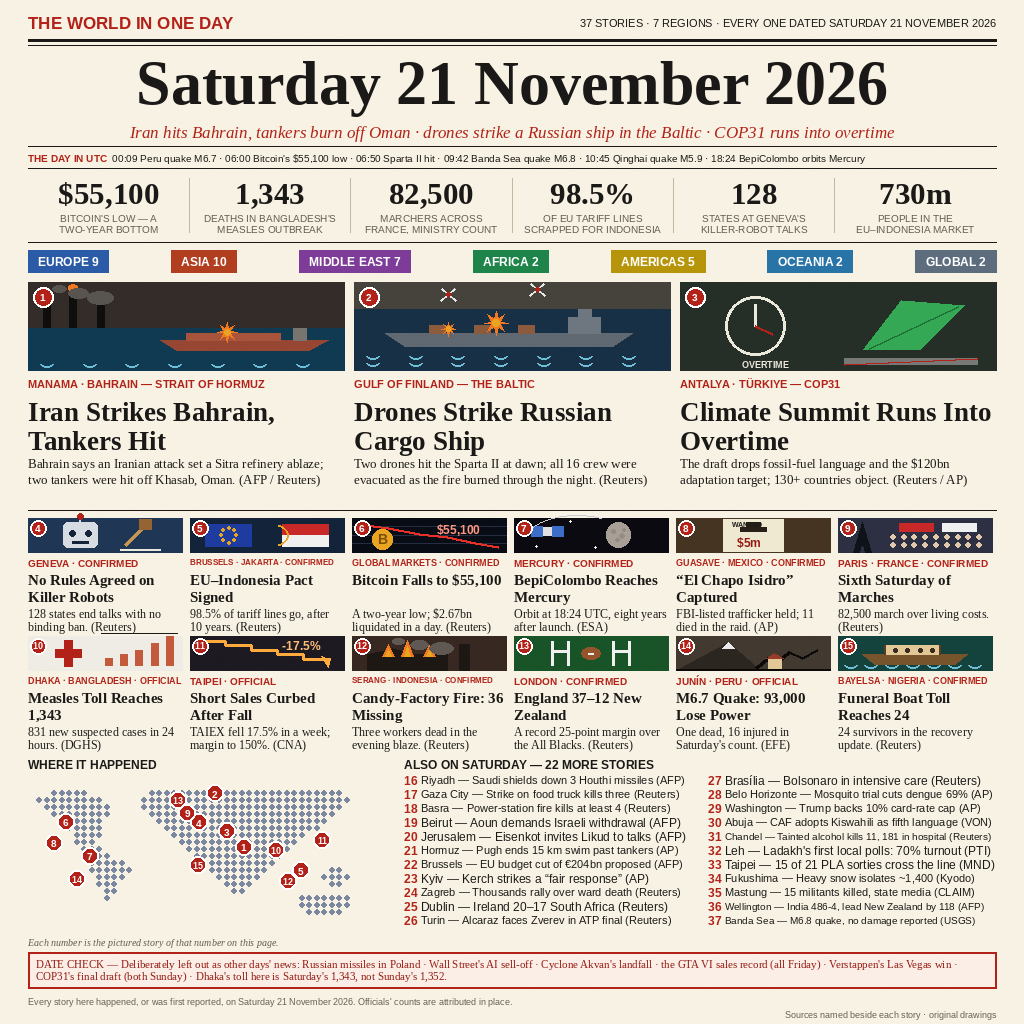
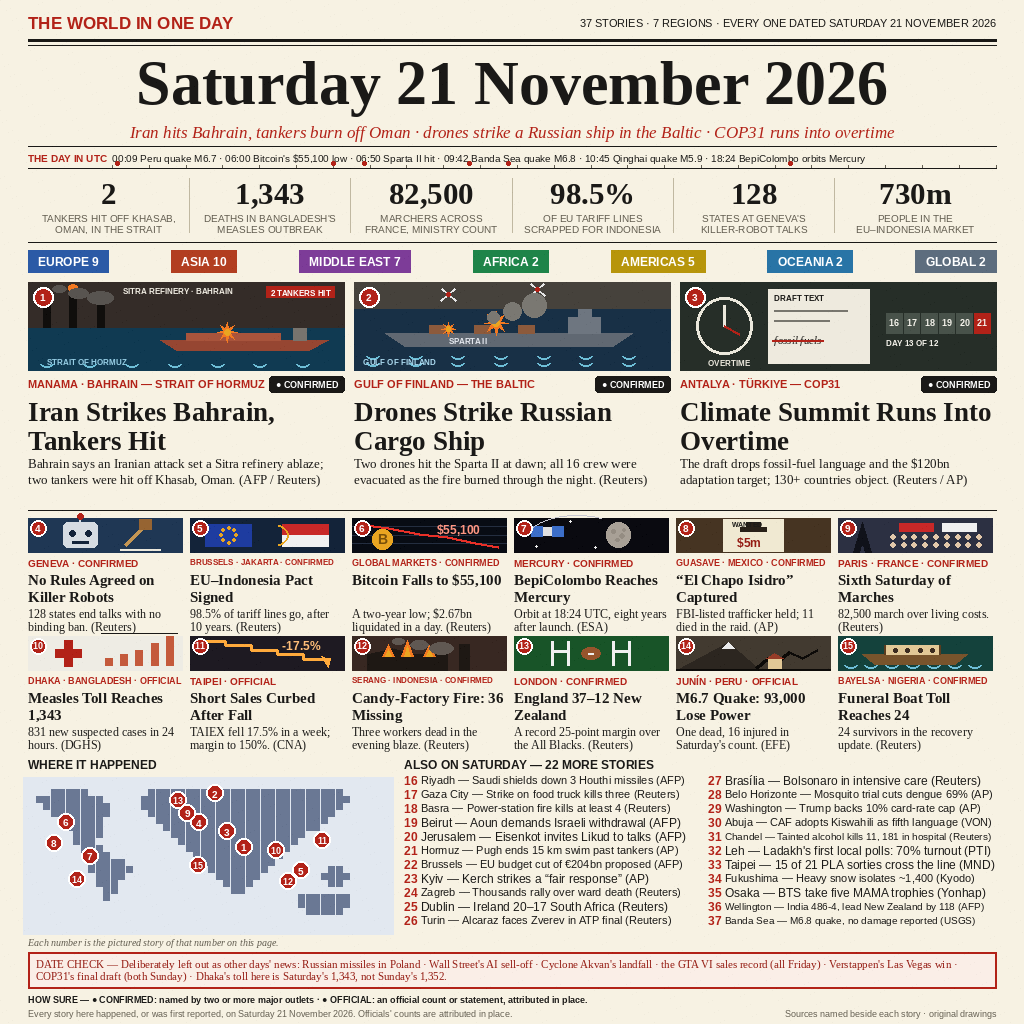
V2: stability sharpening — annotated hero scenes, certainty pills + legend, FAKTA-only briefs, filled map, timeline ruler, hard-news numbers lead

diff --git a/frontpage.py b/frontpage.py
@@ -5,14 +5,14 @@ The page is a classic illustrated broadsheet for one day — Saturday
 Liberation family: masthead, giant serif date, red italic dek, a UTC
 timeline of the day, a six-figure numbers strip, region tabs counted
 from the story list itself, three hero panels with drawn scenes,
-twelve pictured story cards with certainty tags, a dot-matrix world
+twelve pictured story cards with certainty tags, a filled-block world
 map carrying a numbered pin for every pictured story, twenty-two
 one-line briefs, and a red date-check box that names the neighbouring
 days' stories this page deliberately leaves out.
 
 All 37 stories come from a verified research dossier: every figure
 was confirmed by two independent sources before it was allowed on the
-page, and the single state-media claim is tagged CLAIM where it sits.
+page, and the dossier's single-source claims were left off entirely.
 The render is deterministic — same data, same PNG, every run.
 
 Usage:  python3 frontpage.py   ->   entry.png + fallback.png (1024x1024)
@@ -50,7 +50,8 @@ NAVY_LIGHT = (31, 55, 84)
 NIGHT = (11, 21, 35)
 GOLD = (233, 165, 33)
 ORANGE = (243, 121, 33)
-MAP_DOT = (124, 136, 159)
+MAP_DOT = (106, 120, 148)
+MAP_SEA = (226, 232, 240)
 RULE_SOFT = (192, 184, 161)
 
 TAB_INK = {
@@ -175,7 +176,7 @@ BRIEFS = [
     (32, "Leh — Ladakh's first local polls: 70% turnout (PTI)", "Asia"),
     (33, "Taipei — 15 of 21 PLA sorties cross the line (MND)", "Asia"),
     (34, "Fukushima — Heavy snow isolates ~1,400 (Kyodo)", "Asia"),
-    (35, "Mastung — 15 militants killed, state media (CLAIM)", "Asia"),
+    (35, "Osaka — BTS take five MAMA trophies (Yonhap)", "Asia"),
     (36, "Wellington — India 486-4, lead New Zealand by 118 (AFP)", "Oceania"),
     (37, "Banda Sea — M6.8 quake, no damage reported (USGS)", "Oceania"),
 ]
@@ -183,7 +184,7 @@ BRIEFS = [
 # ------------------------------------------------------------------ numbers
 
 NUMBERS = [
-    ("$55,100", "BITCOIN'S LOW — A TWO-YEAR BOTTOM"),
+    ("2", "TANKERS HIT OFF KHASAB, OMAN, IN THE STRAIT"),
     ("1,343", "DEATHS IN BANGLADESH'S MEASLES OUTBREAK"),
     ("82,500", "MARCHERS ACROSS FRANCE, MINISTRY COUNT"),
     ("98.5%", "OF EU TARIFF LINES SCRAPPED FOR INDONESIA"),
@@ -207,7 +208,7 @@ REGION_TALLY = Counter(
 )
 
 # ------------------------------------------------------------------ map
-# A coarse dot-matrix world, one character per dot: '#' is land.
+# A coarse block world, one character per cell: '#' is land.
 # 48 columns x 21 rows, drawn by hand for this page.
 
 WORLD = [
@@ -353,6 +354,17 @@ def scene_hormuz(d, x, y, w, h):
     d.rectangle([x + 0.50 * w, ty - 7, x + 0.80 * w, ty], fill=(168, 84, 60))
     d.rectangle([x + 0.84 * w, ty - 12, x + 0.88 * w, ty], fill=(120, 116, 110))
     burst(d, x + 0.63 * w, ty - 8, 10)
+    # scene labels, in the annotated news-graphic manner
+    d.text((x + 0.30 * w, y + 4), "SITRA REFINERY · BAHRAIN",
+           font=font(SANS_BOLD, 8), fill=(240, 236, 226))
+    tag = "2 TANKERS HIT"
+    tw = d.textlength(tag, font=font(SANS_BOLD, 8))
+    d.rectangle([x + 0.97 * w - tw - 8, y + 4, x + 0.97 * w, y + 15],
+                fill=RED)
+    d.text((x + 0.97 * w - tw - 4, y + 6), tag, font=font(SANS_BOLD, 8),
+           fill=(255, 255, 255))
+    d.text((x + 0.06 * w, y + h - 13), "STRAIT OF HORMUZ",
+           font=font(SANS_BOLD, 8), fill=(150, 205, 228))
     _waves(d, x, y, w, [y + h - 7])
 
 
@@ -377,32 +389,58 @@ def scene_sparta(d, x, y, w, h):
         d.line([dx - 7, dy - 6, dx + 7, dy + 6], fill=(230, 230, 230), width=2)
         d.line([dx - 7, dy + 6, dx + 7, dy - 6], fill=(230, 230, 230), width=2)
         d.ellipse([dx - 2, dy - 2, dx + 2, dy + 2], fill=RED)
+    # smoke rising off the deck fire
+    for i, (fx, fy) in enumerate([(0.44, 0.40), (0.50, 0.33), (0.57, 0.27)]):
+        r = 6 + i * 3
+        d.ellipse([x + fx * w - r, y + fy * h - r, x + fx * w + r,
+                   y + fy * h + r], fill=(122, 120, 114))
     _waves(d, x, y, w, [y + h - 8, y + h - 15])
+    # scene labels last, over the water: the gulf, and the ship's name
+    d.text((x + 0.03 * w, y + h - 13), "GULF OF FINLAND",
+           font=font(SANS_BOLD, 8), fill=(170, 216, 238))
+    d.text((x + 0.30 * w, gy + 3), "SPARTA II", font=font(SANS_BOLD, 8),
+           fill=(228, 232, 238))
 
 
 def scene_cop(d, x, y, w, h):
-    """A summit clock run past the hour, and a green leaf."""
+    """A summit clock run past the hour; the draft text with its
+    fossil-fuels line struck out; a calendar whose scheduled days
+    run out on the 21st — day 13 of a 12-day summit."""
     d.rectangle([x, y, x + w, y + h], fill=(38, 46, 40))
     cy = y + h / 2
     # clock, left
-    cx = x + 0.24 * w
-    r = h * 0.34
+    cx = x + 0.14 * w
+    r = h * 0.32
     d.ellipse([cx - r, cy - r, cx + r, cy + r], outline=(235, 232, 220), width=3)
     d.line([cx, cy, cx, cy - r * 0.72], fill=(235, 232, 220), width=3)
     d.line([cx, cy, cx + r * 0.55, cy + r * 0.30], fill=RED, width=3)
-    d.text((cx - 14, cy + r + 3), "OVERTIME", font=font(SANS_BOLD, 9),
+    d.text((cx - 16, cy + r + 4), "OVERTIME", font=font(SANS_BOLD, 8),
            fill=(235, 232, 220))
-    # leaf, right
-    d.polygon([(x + 0.58 * w, cy + r * 0.8), (x + 0.70 * w, cy - r * 0.85),
-               (x + 0.90 * w, cy - r * 0.7), (x + 0.76 * w, cy + r * 0.8)],
-              fill=(52, 168, 84))
-    d.line([x + 0.60 * w, cy + r * 0.75, x + 0.88 * w, cy - r * 0.65],
-           fill=(30, 110, 55), width=2)
-    # struck-through fossil bar
-    d.rectangle([x + 0.52 * w, cy + r + 3, x + 0.94 * w, cy + r + 9],
-                fill=(120, 120, 118))
-    d.line([x + 0.52 * w, cy + r + 9, x + 0.94 * w, cy + r + 3], fill=RED,
-           width=2)
+    # the draft, centre: a page whose key line is struck through
+    dx0, dy0 = x + 0.28 * w, y + 7
+    dx1, dy1 = x + 0.60 * w, y + h - 7
+    d.rectangle([dx0, dy0, dx1, dy1], fill=(238, 234, 222))
+    d.text((dx0 + 6, dy0 + 4), "DRAFT TEXT", font=font(SANS_BOLD, 8), fill=INK)
+    for i, wd in enumerate((0.78, 0.60)):
+        ly = dy0 + 21 + i * 10
+        d.line([dx0 + 6, ly, dx0 + wd * (dx1 - dx0), ly],
+               fill=(120, 118, 110), width=2)
+    fy = dy0 + 45
+    ff = font(SERIF_ITALIC, 11)
+    d.text((dx0 + 6, fy), "fossil fuels", font=ff, fill=INK)
+    d.line([dx0 + 4, fy + 6, dx0 + 8 + d.textlength("fossil fuels", font=ff),
+            fy + 6], fill=RED, width=2)
+    # calendar, right: the scheduled days run out on the red 21st
+    gx = x + 0.65 * w
+    cell = 0.335 * w / 6
+    for i, day in enumerate(("16", "17", "18", "19", "20", "21")):
+        cx0 = gx + i * cell
+        d.rectangle([cx0 + 1, cy - 13, cx0 + cell - 1, cy + 7],
+                    fill=RED if day == "21" else (72, 82, 74))
+        middle(d, cx0 + cell / 2, cy - 9, day, font(SANS_BOLD, 9),
+               (245, 243, 235))
+    d.text((gx + 1, cy + 12), "DAY 13 OF 12", font=font(SANS_BOLD, 8),
+           fill=(245, 243, 235))
 
 
 def scene_robots(d, x, y, w, h):
@@ -664,6 +702,14 @@ def render():
     d.text((EDGE, 152), "THE DAY IN UTC", font=font(SANS_BOLD, 10), fill=RED)
     lab_w = d.textlength("THE DAY IN UTC  ", font=font(SANS_BOLD, 10))
     fit(d, EDGE + lab_w, 152, TIMELINE, SANS, 10, SPAN - lab_w, INK)
+    # an hour-tick ruler under the line, with a dot for each printed time
+    tl_x, tl_span = EDGE + lab_w, SPAN - lab_w
+    for k in range(25):
+        txp = tl_x + tl_span * k / 24
+        d.line([txp, 165, txp, 168], fill=FAINT, width=1)
+    for frac in (0.006, 0.250, 0.285, 0.404, 0.448, 0.767):
+        ex = tl_x + tl_span * frac
+        d.ellipse([ex - 2, 161, ex + 2, 165], fill=RED)
     d.line([EDGE, 168, PAGE - EDGE, 168], fill=INK, width=1)
 
     # ---- numbers strip
@@ -696,6 +742,14 @@ def render():
         SCENES[hero["scene"]](d, hx, hy, hero_w, 88)
         pin(d, hx + 15, hy + 15, hero["num"], r=10)
         d.text((hx, hy + 96), hero["tag"], font=font(SANS_BOLD, 11), fill=RED)
+        # every hero is two-source: it carries the same pill as the cards
+        pill = "● CONFIRMED"
+        pf = font(SANS_BOLD, 9)
+        pw = d.textlength(pill, font=pf) + 12
+        d.rounded_rectangle([hx + hero_w - pw, hy + 94, hx + hero_w,
+                             hy + 110], 3, fill=INK)
+        d.text((hx + hero_w - pw + 6, hy + 97), pill, font=pf,
+               fill=(255, 255, 255))
         block(d, hx, hy + 114, hero["head"], font(SERIF_BOLD, 27), INK,
               hero_w, 29, cap=2)
         block(d, hx, hy + 174, hero["summ"], font(SERIF, 13), INK,
@@ -721,15 +775,18 @@ def render():
     d.text((EDGE, by), "WHERE IT HAPPENED", font=font(SANS_BOLD, 12), fill=INK)
     map_x, map_y = EDGE, by + 24
     pitch_x, pitch_y = 7.5, 7.0
+    map_w = len(WORLD[0]) * pitch_x
+    map_h = len(WORLD) * pitch_y
+    d.rectangle([map_x - 5, map_y - 5, map_x + map_w + 5, map_y + map_h + 5],
+                fill=MAP_SEA)
     for ri, row in enumerate(WORLD):
         for ci, ch in enumerate(row):
             if ch == "#":
                 cxp = map_x + ci * pitch_x + pitch_x / 2
                 cyp = map_y + ri * pitch_y + pitch_y / 2
-                d.ellipse([cxp - 2.5, cyp - 2.5, cxp + 2.5, cyp + 2.5],
-                          fill=MAP_DOT)
-    map_w = len(WORLD[0]) * pitch_x
-    map_h = len(WORLD) * pitch_y
+                d.rectangle([cxp - pitch_x / 2 + 0.6, cyp - pitch_y / 2 + 0.6,
+                             cxp + pitch_x / 2 - 0.6, cyp + pitch_y / 2 - 0.6],
+                            fill=MAP_DOT)
     for num, (fx, fy) in PINS.items():
         pin(d, map_x + fx * map_w, map_y + fy * map_h, num, r=8.5)
     d.text((EDGE, map_y + map_h + 8),
@@ -757,14 +814,18 @@ def render():
     block(d, EDGE + 8, box_y + 6, DATE_CHECK, font(SERIF, 11), DEEP_RED,
           SPAN - 16, 12, cap=2)
 
-    # ---- footer
-    d.text((EDGE, 996),
+    # ---- footer: the certainty legend, then the dating line
+    d.text((EDGE, 994),
+           "HOW SURE — ● CONFIRMED: named by two or more major outlets · "
+           "● OFFICIAL: an official count or statement, attributed in place.",
+           font=font(SANS_BOLD, 9), fill=INK)
+    d.text((EDGE, 1008),
            "Every story here happened, or was first reported, on Saturday "
            "21 November 2026. Officials' counts are attributed in place.",
            font=font(SANS, 9), fill=FAINT)
     tail = "Sources named beside each story · original drawings"
     tf2 = font(SANS, 9)
-    d.text((PAGE - EDGE - d.textlength(tail, font=tf2), 1009), tail,
+    d.text((PAGE - EDGE - d.textlength(tail, font=tf2), 1008), tail,
            font=tf2, fill=FAINT)
 
     return grain(img)

diff --git a/README.md b/README.md
@@ -4,7 +4,7 @@
 [![rank](https://make.fun/badge/news-image-20261121/vnazt/news-image-20261121/rank.svg)](https://make.fun/bounty/news-image-20261121/leaderboard?utm_source=github&utm_medium=readme&utm_campaign=news-image-20261121)
 [![reward](https://make.fun/badge/news-image-20261121/vnazt/news-image-20261121/reward.svg)](https://make.fun/bounty/news-image-20261121?utm_source=github&utm_medium=readme&utm_campaign=news-image-20261121)
 
-One image that sums up the world news of Saturday 21 November 2026 — a classic illustrated newspaper front page: a giant serif date headline, a red italic dek, a UTC timeline of the day, a numbers strip whose six figures come from six different stories (Bitcoin's $55,100 two-year low, Bangladesh's measles toll of 1,343, 82,500 marchers across France, 98.5% of EU tariff lines scrapped for Indonesia, 128 states at Geneva's killer-robot talks, the EU–Indonesia market of 730 million people), region tabs with counts computed from the story list, three hero panels (Iran strikes Bahrain as tankers are hit near the Strait of Hormuz, two drones strike the Russian cargo ship Sparta II in the Gulf of Finland, COP31 in Antalya runs into overtime), twelve more pictured stories with certainty tags and named sources, a dot-matrix world map with numbered markers, and 22 one-line briefs — 37 stories in all, every one dated Saturday 21 November 2026, with a red date-check box naming the stories deliberately left out as other days' news.
+One image that sums up the world news of Saturday 21 November 2026 — a classic illustrated newspaper front page: a giant serif date headline, a red italic dek, a UTC timeline of the day, a numbers strip whose six figures come from six different stories (2 tankers hit off Khasab, Oman, Bangladesh's measles toll of 1,343, 82,500 marchers across France, 98.5% of EU tariff lines scrapped for Indonesia, 128 states at Geneva's killer-robot talks, the EU–Indonesia market of 730 million people), region tabs with counts computed from the story list, three hero panels with annotated scenes (Iran strikes Bahrain as tankers are hit near the Strait of Hormuz, two drones strike the Russian cargo ship Sparta II in the Gulf of Finland, COP31 in Antalya runs into overtime), twelve more pictured stories with certainty tags and named sources, a filled-block world map with numbered markers, and 22 one-line briefs — 37 stories in all, every one dated Saturday 21 November 2026, with a red date-check box naming the stories deliberately left out as other days' news.
 
 ## Run it
 
